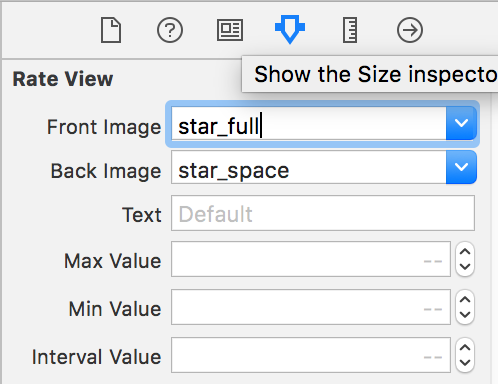
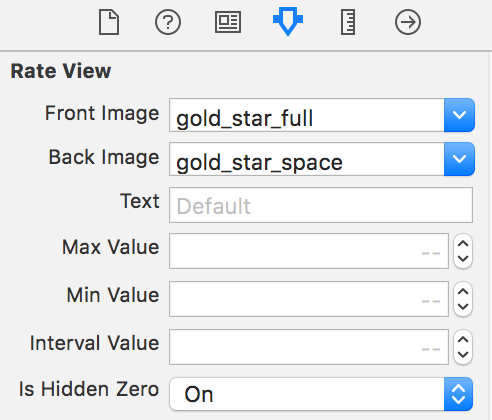
update image sample

Changed region(s): [[0.0, 0.0, 1.0, 1.0], [0.122, 0.6562, 0.3354, 0.7188], [0.3354, 0.7188, 0.3659, 0.75]]

diff --git a/Example/YCRateView/ViewController.swift b/Example/YCRateView/ViewController.swift
@@ -22,15 +22,15 @@ class ViewController: UIViewController {
       // Do any additional setup after loading the view, typically from a nib.
       ycRateView.sliderAddTarget(target: self, selector: #selector(doSomething), event: .valueChanged)
       // add call back
-      ycRateView.frontImageView.image = #imageLiteral(resourceName: "star_full_4")
-      ycRateView.backImageView.image = #imageLiteral(resourceName: "star_space_4")
+      ycRateView.frontImageView.image = #imageLiteral(resourceName: "gray_star_full")
+      ycRateView.backImageView.image = #imageLiteral(resourceName: "gray_star_space")
       ycRateView.rateViewChanged = { slider, frontImageView, backImageView, text in
         if slider.value <= 2.5 {
-          backImageView.image = #imageLiteral(resourceName: "star_space_4")
-          frontImageView.image = #imageLiteral(resourceName: "star_full_4")
+          backImageView.image = #imageLiteral(resourceName: "gray_star_space")
+          frontImageView.image = #imageLiteral(resourceName: "gray_star_full")
         } else {
-          backImageView.image = #imageLiteral(resourceName: "star_space")
-          frontImageView.image = #imageLiteral(resourceName: "star_full")
+          backImageView.image = #imageLiteral(resourceName: "gold_star_space")
+          frontImageView.image = #imageLiteral(resourceName: "gold_star_full")
         }
       }
   }

diff --git a/README.md b/README.md
@@ -18,25 +18,28 @@ it, simply add the following line to your Podfile:
 pod 'YCRateView'
 ```
 
-## Uasge
+## Usage
 
 1. Add UIImageView in Storyboard
 2. Set class YCRateView
 
- <img src="https://github.com/YangChing/YCRateView/blob/1.1.6/Image/class_setting.png" />
+ <img src="https://github.com/YangChing/YCRateView/blob/master/Image/class_setting.png" />
  
 3. Choose Front Image and Back Image
 
-<img src="https://github.com/YangChing/YCRateView/blob/1.1.6/Image/init_setting.png" />
+<img src="https://github.com/YangChing/YCRateView/blob/master/Image/init_setting.png" />
 
 Front Image
 
-<img src="https://github.com/YangChing/YCRateView/blob/master/Example/YCRateView/Images.xcassets/1-Copy-2.imageset/1-Copy-2%403x.png" />
+<img src="https://github.com/YangChing/YCRateView/blob/master/Example/YCRateView/Images.xcassets/gold_star_full.imageset/gold_star_full%403x.png" />
 
 Back Image
 
-<img src="https://github.com/YangChing/YCRateView/blob/master/Example/YCRateView/Images.xcassets/1-Copy-3.imageset/1-Copy-3%403x.png" />
+<img src="https://github.com/YangChing/YCRateView/blob/master/Example/YCRateView/Images.xcassets/gold_star_space.imageset/gold_star_space%403x.png" />
 
+Sample
+
+<img src="https://github.com/YangChing/YCRateView/blob/master/Image/animation.gif" />
 
 ## Author
 
